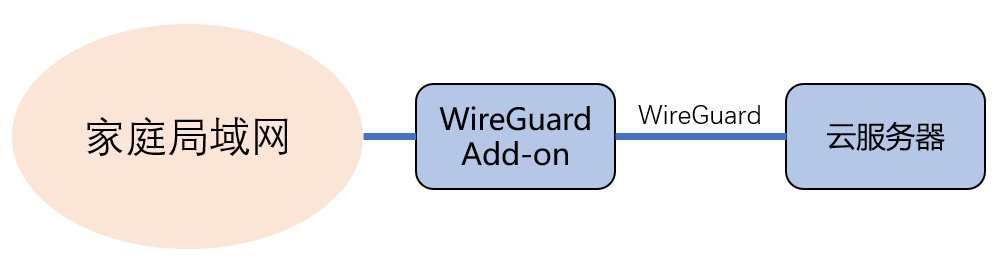
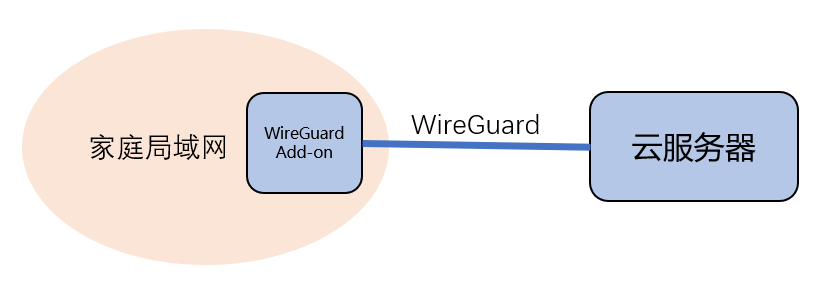
tunnel2local

Changed region(s): [[0.0, 0.092, 1.0, 0.9502]]

diff --git a/04.公网访问篇/4.HASSIO插件—tunnel2local以及frp服务搭建.md b/04.公网访问篇/4.HASSIO插件—tunnel2local以及frp服务搭建.md
@@ -1,0 +1,46 @@
+# HASSIO插件——tunnel2local以及frp服务搭建
+    
+## tunnel2local
+
+- 通过Supervisor添加新的repository，地址为 <https://github.com/zhujisheng/hassio-addons>
+- 或者使用HASSOS定制镜像，该镜像默认安装了tunnel2local组件，地址为 <https://www.hachina.io/hassos_hachina_img/>
+    
+
+## frp服务搭建
+
+需要以下操作或准备：
+
+- 有固定公网IP的云服务器（视频以阿里云为例）
+- 安装0.32.1版本的frp
+- 配置frps服务
+- 配置frp的自启动
+- 开放云服务器的端口（视频以阿里云为例）
+
+frps服务的具体配置frps.ini：
+    
+    [common]
+    bind_port = 7000
+    token = a12345678
+    #token根据自己的需求设置，首位最好是字母
+
+自启动的具体配置：
+    
+    [Unit]
+    Description=frp-server-auto
+    After=network-online.target
+    
+    [Service]
+    Type=simple
+    ExecStart=/bin/frps -c /home/frp/frps.ini
+    ## 这里和你实际的frps所在的位置相关
+    Restart=on-failure
+    
+    [Install]
+    WantedBy=multi-user.target
+
+## tunnel2local与frps的连接
+
+只需要按照下图进行修改
+
+<img src="images/tunnel2local.png" width="100%">
+

diff --git a/04.公网访问篇/5.使用WireGuard.md b/04.公网访问篇/5.使用WireGuard.md
@@ -4,7 +4,7 @@
 
 <img src="images/wireguard1.png" width="60%">
 
-#### WireGuard Add-on——本地
+#### WireGuard Add-on——本地节点
 
 - 配置内容
 
@@ -49,7 +49,7 @@
     + 会自动生成一个，存放在`/ssl/wireguard/`
     + 需要修改后才能使用
 
-#### 安装与配置WireGuard——云端
+#### 安装与配置WireGuard——远端节点
 
 - 打开防火墙设置
     + UDP 51820
